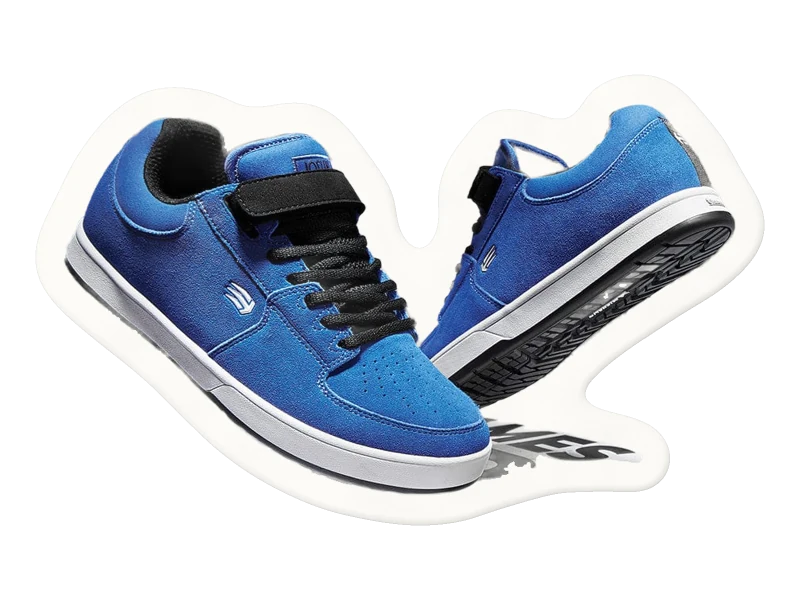
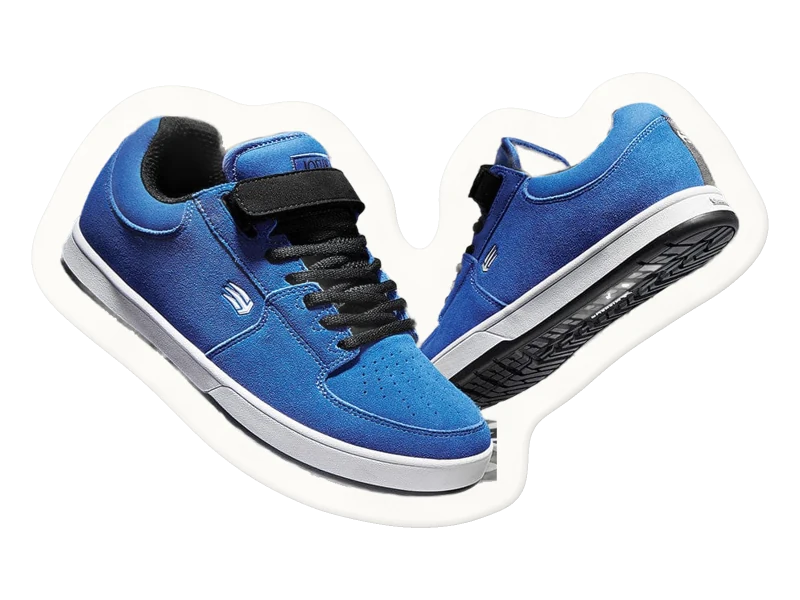
things: 10 more stickers (Stanley, Haier, Ecovacs, Etnies, Burton, Aldébaran, Nikopol), sources cleanup

diff --git a/tools/stickers/make_stickers.py b/tools/stickers/make_stickers.py
@@ -330,7 +330,7 @@ def paper_layer(cut: np.ndarray, inside: np.ndarray, seed: int) -> np.ndarray:
     return np.clip(rgb, 0, 255) / 255.0
 
 
-def warp_quad(rgba: np.ndarray, quad, aspect: float) -> np.ndarray:
+def warp_quad(rgba: np.ndarray, quad, aspect: float, border: int = cv2.BORDER_REPLICATE) -> np.ndarray:
     """Perspective-correct 4 corners (fractions: TL, TR, BR, BL) into an upright rectangle."""
     hh, ww = rgba.shape[:2]
     src = np.float32([[x * ww, y * hh] for x, y in quad])
@@ -338,7 +338,7 @@ def warp_quad(rgba: np.ndarray, quad, aspect: float) -> np.ndarray:
     qh = int(qw * float(aspect))
     dst = np.float32([[0, 0], [qw, 0], [qw, qh], [0, qh]])
     m = cv2.getPerspectiveTransform(src, dst)
-    out = cv2.warpPerspective(rgba, m, (qw, qh), flags=cv2.INTER_CUBIC, borderMode=cv2.BORDER_REPLICATE)
+    out = cv2.warpPerspective(rgba, m, (qw, qh), flags=cv2.INTER_CUBIC, borderMode=border)
     return np.clip(out, 0, 1)
 
 
@@ -505,6 +505,13 @@ def render(spec: dict, img: Image.Image, cache: Path, item_id: str) -> Image.Ima
         for cx, cy, rx, ry in spec["add_ellipses"]:
             cv2.ellipse(m, (round(cx * ww * ss), round(cy * hh * ss)), (round(rx * ww * ss), round(ry * hh * ss)), 0, 0, 360, 255, -1)
         alpha = np.maximum(alpha, cv2.resize(m.astype(np.float32) / 255, (ww, hh), interpolation=cv2.INTER_AREA))
+    if "cut_polys" in spec:  # background bits the matte kept (polygons, fractions), removed from the alpha
+        hh, ww = alpha.shape
+        ss = 4
+        m = np.zeros((hh * ss, ww * ss), np.uint8)
+        for poly in spec["cut_polys"]:
+            cv2.fillPoly(m, [np.int32([[x * ww * ss, y * hh * ss] for x, y in poly])], 255, lineType=cv2.LINE_AA)
+        alpha = alpha * (1 - cv2.resize(m.astype(np.float32) / 255, (ww, hh), interpolation=cv2.INTER_AREA))
     alpha = clean_alpha(alpha, spec.get("keep", "all"), int(spec.get("erode", 1 if mode == "rembg" else 0)),
                         bool(spec.get("fill_holes", False)), int(spec.get("open", 0)))
     if spec.get("shape") == "ellipse":  # round objects: replace a ragged matte by its fitted ellipse
@@ -521,6 +528,8 @@ def render(spec: dict, img: Image.Image, cache: Path, item_id: str) -> Image.Ima
     rgba[..., 3] = alpha
     if spec.get("book"):  # front cover -> book: page block peeking out right and bottom, soft spine shade
         rgba = book_depth(rgba, float(spec["book"]) if not isinstance(spec["book"], bool) else 0.03)
+    if "quad_post" in spec:  # like quad, but after matting (when rembg struggles on the warped photo)
+        rgba = warp_quad(rgba, spec["quad_post"], spec.get("quad_aspect", 1.0), border=cv2.BORDER_CONSTANT)
     if spec.get("rotate"):  # after matting, so the turned corners stay transparent
         pm = Image.fromarray((rgba * 255).astype(np.uint8), "RGBA")
         pm = pm.rotate(float(spec["rotate"]), resample=Image.BICUBIC, expand=True)

diff --git a/tools/stickers/README.md b/tools/stickers/README.md
@@ -59,8 +59,10 @@ python3 -m venv .venv && .venv/bin/pip install -r tools/stickers/requirements.tx
 | `open` | px : ouverture morphologique, coupe les fines excroissances (ombre, câble) |
 | `fill_holes` | bouche les trous du masque |
 | `add_polys`, `add_ellipses` | ajoute au masque des parties oubliées par le détourage (`[cx, cy, rx, ry]` pour les ellipses) |
+| `cut_polys` | retire du masque des morceaux de fond gardés par le détourage (polygones, fractions) |
 | `shape: ellipse`, `shape_shrink` | remplace un masque irrégulier par l'ellipse ajustée (objets ronds) |
 | `flatten` | nettoie les taches d'un tissu clair : `{min_v, max_s, sigma, keep, detail}` |
+| `quad_post` | comme `quad`, mais appliqué après le détourage (quand rembg échoue sur la photo redressée) |
 | `book` | couverture → livre : tranche de pages et plat arrière (valeur = épaisseur relative, ex. `0.03`) ; à combiner avec `rotate` |
 | `compose` | assemble plusieurs images déjà détourées en une seule source : `{"size": [W, H], "layers": [{"source", "crop"?, "box": [x0, y0, x1, y1]}]}`, chaque calque rogné à son alpha, ajusté dans sa boîte (fractions du canevas, calé en bas) puis empilé dans l'ordre ; `source` reste requis (premier calque) |
 | `page` | page où la source a été trouvée (traçabilité) |
